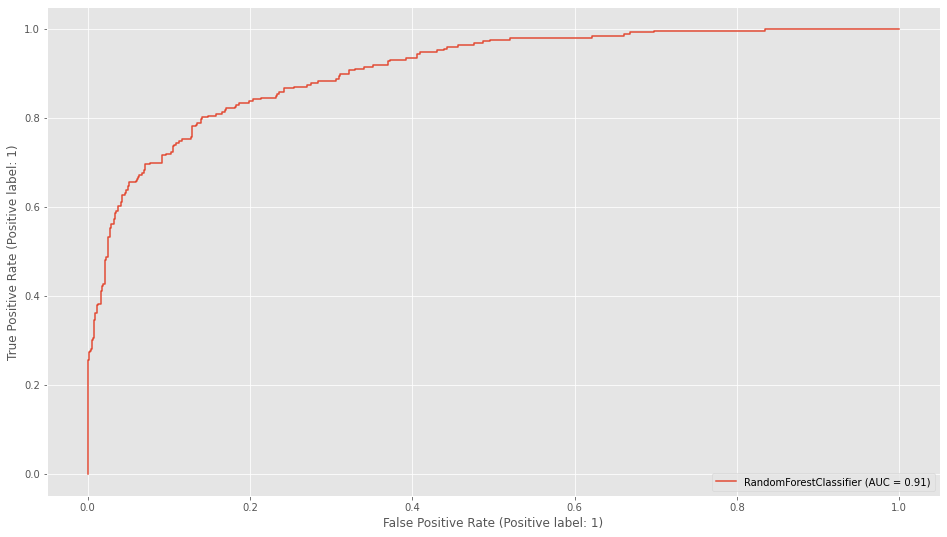
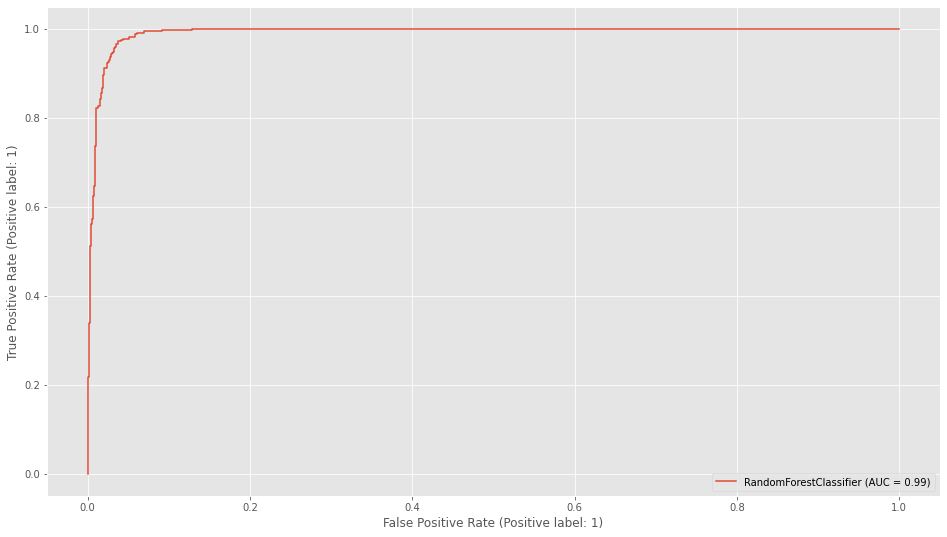
files updated

diff --git a/README.md b/README.md
@@ -21,10 +21,10 @@ That is why we put together this project to let an AI predict the quality of a w
 * PyTorch
 
 ## Usage
-* nn_wine_keras.ipynb
-* nn_wine_pytorch.ipynb
+* wine_quality.py -> DL Neural Network (Keras) model
+* ml_wine.ipynb -> ML (Sklearn) model
 
-## Base Line Model (Binary Classification)
+## Base Line NN Model (Binary Classification)
 
 ### Data
 * wine.csv
@@ -97,12 +97,19 @@ That is why we put together this project to let an AI predict the quality of a w
 
 ![matrix](assets/matrix.png)
 
-### RandomForestClassifier
+### ML RandomForestClassifier
 
-* 0.88 cv score with a standard deviation of 0.01
+* 0.93 cv score with a standard deviation of 0.01
+* roc_auc_score: 0.926
 
 
 ![auc](assets/rfc_curve.png)
 
 ![matrix](assets/rfc_matrix.png)
 
+### Final Word
+* Neural Network achieved high train and test scores, predicting class 0 ('bad wine') accurately yet the predictions of the class 1 ('good wine') wasn't as accurate as expected.
+* Machine Learning (RandomForestClassifier) model showed high scores as well as more accurate predictions for both classes.
+* The number of data samples wasn't enough for either model, so resampling was necessary in order to achieve good results.
+
+* Note: This challenge was a useful exercise to gain better knowledge of deep learning and the use of neural networks.
